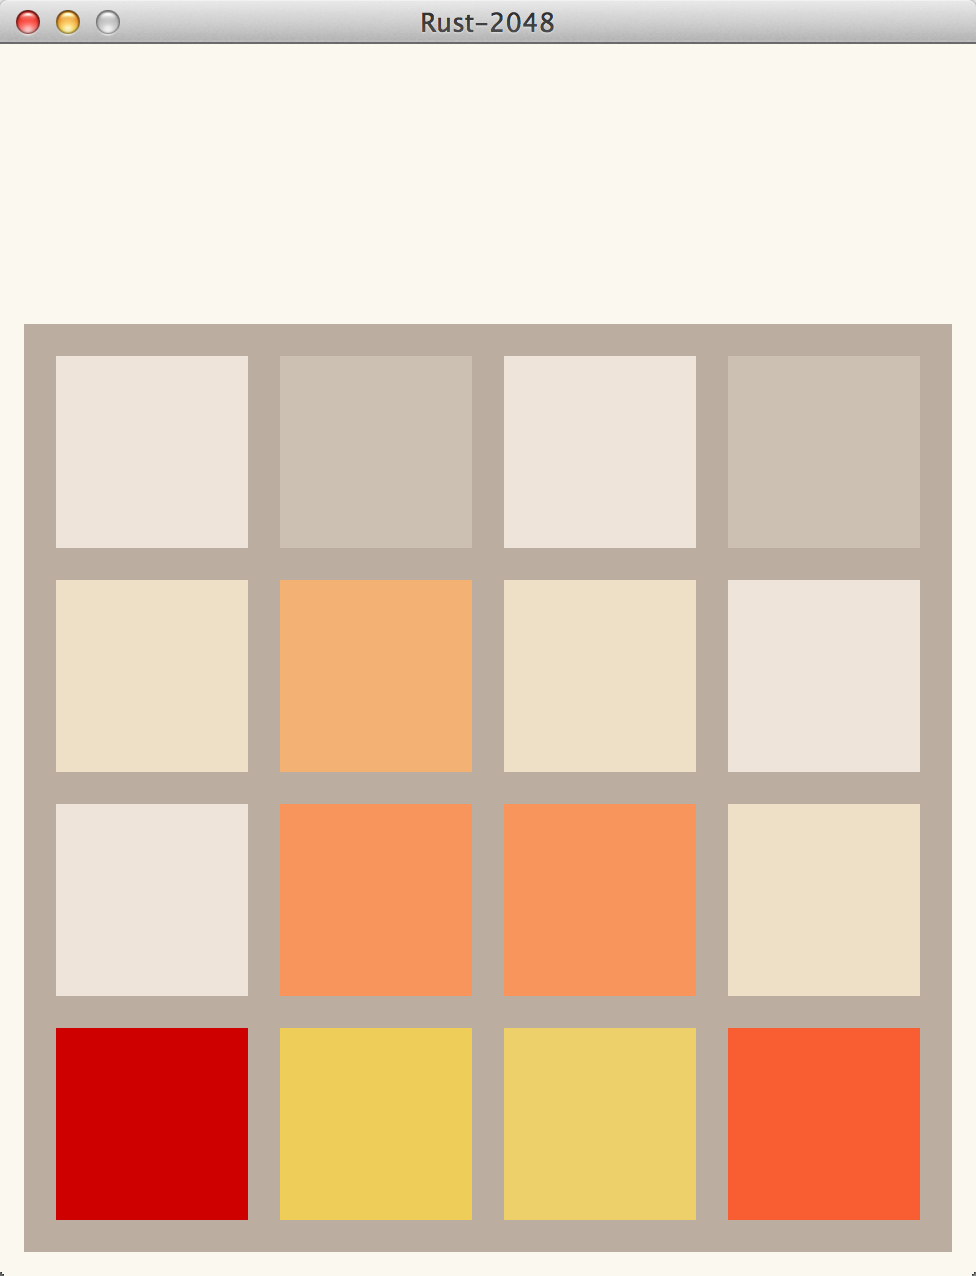
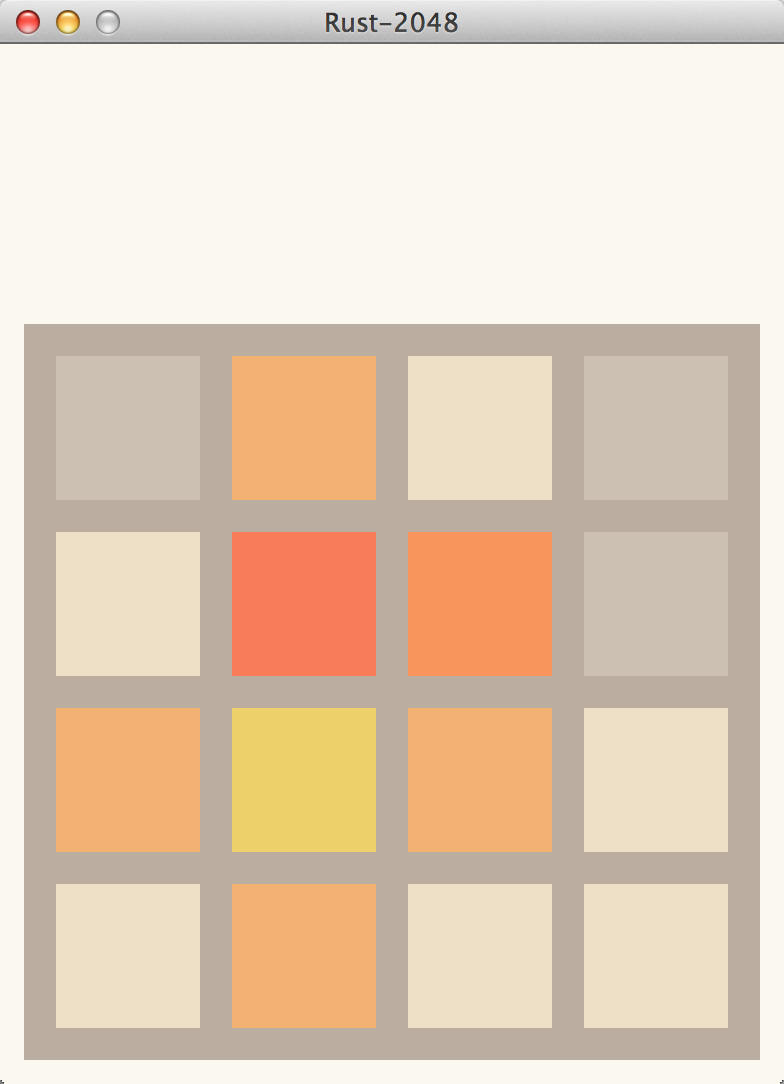
Update screenshot

diff --git a/src/settings.rs b/src/settings.rs
@@ -16,7 +16,7 @@ pub static BOARD_OFFSET_Y: f64 = 128.0;
 
 pub static TILE_WIDTH: int = 4;
 pub static TILE_HEIGHT: int = 4;
-pub static TILE_SIZE: f64 = 96.0;
+pub static TILE_SIZE: f64 = 72.0;
 pub static TILE_PADDING: f64 = 16.0;
 pub static TILE_BACKGROUND_COLOR: [f32, ..4] = [187.0 / 255.0, 173.0 / 255.0, 160.0 / 255.0, 1.0];
 pub static TILES_COLOR: [[f32, ..4], ..10] = [
